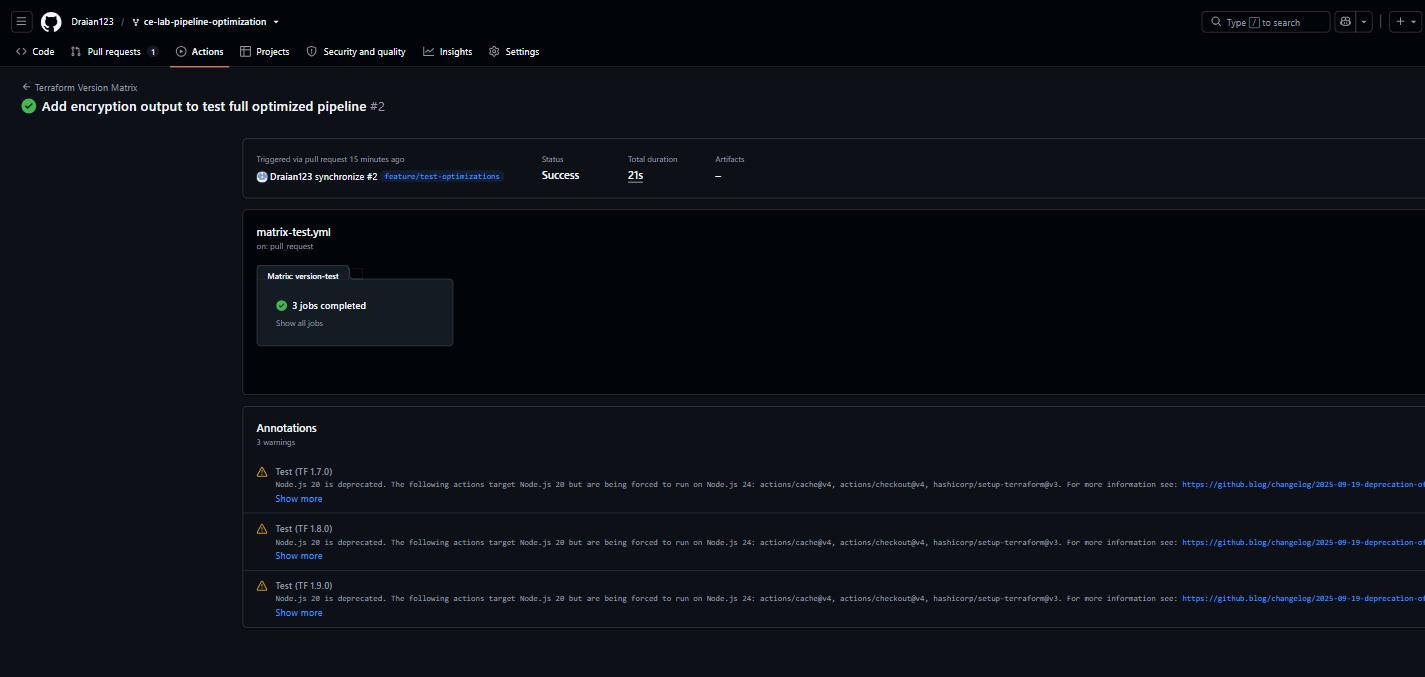
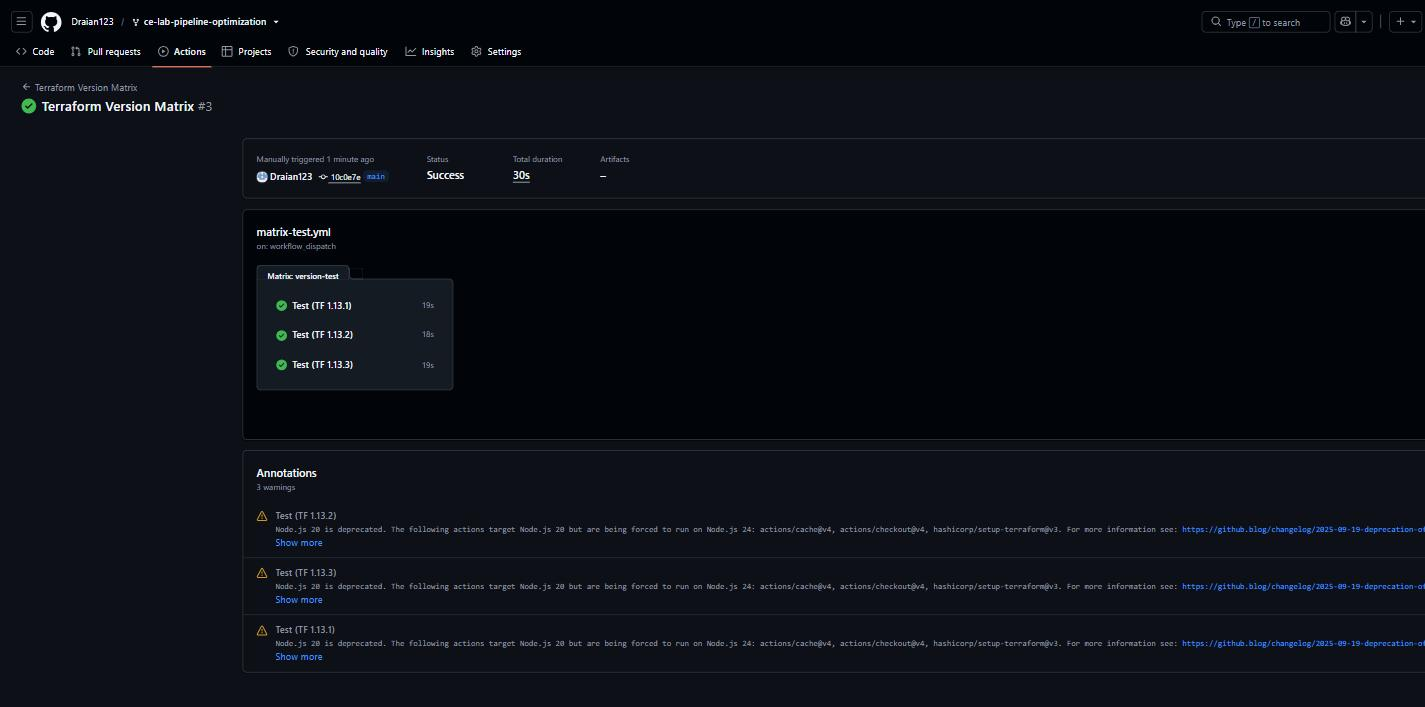
Re-benchmark at Terraform 1.13.1 and re-disable the baseline
- All numbers re-measured on 1.13.1 with the provider cache deleted first
- Baseline 14 s vs optimized 29 s warm / 34 s cold; init 5 s -> 1 s cached
- Matrix evidence updated to 1.13.1 / 1.13.2 / 1.13.3 (30 s for three versions)
- Added cache-storage cost note (110 MB per entry, 10 GB repo limit)
- baseline-slow.yml disabled again after the comparison

diff --git a/README.md b/README.md
@@ -12,18 +12,23 @@ All numbers below come from real runs in this repository's
 
 ## Pipeline Performance Comparison
 
+All pipelines run **Terraform 1.13.1**. Every measurement below was taken on that version, with the
+provider cache deleted beforehand so the cold numbers are real.
+
 | Metric | Baseline (Slow) | Optimized |
 |--------|-----------------|-----------|
-| Total wall-clock duration | **22 s** ([run](https://github.com/Draian123/ce-lab-pipeline-optimization/actions/runs/31367689766)) | **35 s** warm cache ([run](https://github.com/Draian123/ce-lab-pipeline-optimization/actions/runs/31368200527)) · 43 s cold ([run](https://github.com/Draian123/ce-lab-pipeline-optimization/actions/runs/31367689782)) |
-| Billable job time | 13 s in 1 job | 28 s across 3 jobs |
-| `terraform init` | 4–6 s, **never cached** | 5 s cold → **1–2 s cached** |
+| Total wall-clock duration | **14 s** ([run](https://github.com/Draian123/ce-lab-pipeline-optimization/actions/runs/31370828181)) | **29 s** warm cache ([run](https://github.com/Draian123/ce-lab-pipeline-optimization/actions/runs/31370981166)) · 34 s cold ([run](https://github.com/Draian123/ce-lab-pipeline-optimization/actions/runs/31370828252)) |
+| Billable job time | 12 s in 1 job | 29 s across 3 jobs (36 s cold) |
+| `terraform init` | 5 s, **never cached** | 5 s cold → **1 s cached** |
 | Job structure | 1 sequential job | 3 jobs: `lint` ∥ `validate` → `plan` |
 | Path filtering | none — runs on every change | `terraform/**` + own workflow file only |
-| Version testing | single version (1.7.0) | matrix: 1.7.0, 1.8.0, 1.9.0 in parallel |
+| Version testing | single version (1.13.1) | matrix: 1.13.1, 1.13.2, 1.13.3 in parallel |
 | Docs-only commit | full pipeline runs | **skipped entirely** |
 
 > **Read the wall-clock row carefully.** On this workload the optimized pipeline is *slower*, and
 > that is the honest result — see [Where the optimizations actually pay off](#where-the-optimizations-actually-pay-off).
+>
+> Caching still does its job: warm cache beats cold by 5 s, and `init` drops from 5 s to 1 s.
 
 ---
 
@@ -37,12 +42,13 @@ provider set is unchanged.
 
 | `terraform init` | Duration | Evidence |
 |------------------|----------|----------|
-| Baseline (no cache, every run) | 4–6 s | baseline job, all runs |
-| Optimized, cache miss | 5 s (+3 s to save the cache) | [run 31367689782](https://github.com/Draian123/ce-lab-pipeline-optimization/actions/runs/31367689782) |
-| Optimized, cache hit | **1 s** (+2 s to restore) | [run 31368200527](https://github.com/Draian123/ce-lab-pipeline-optimization/actions/runs/31368200527) |
+| Baseline (no cache, every run) | 5 s | [run 31370828181](https://github.com/Draian123/ce-lab-pipeline-optimization/actions/runs/31370828181) |
+| Optimized, cache miss | 5 s (+5 s to save the cache) | [run 31370828252](https://github.com/Draian123/ce-lab-pipeline-optimization/actions/runs/31370828252) |
+| Optimized, cache hit | **1 s** (+2–4 s to restore) | [run 31370981166](https://github.com/Draian123/ce-lab-pipeline-optimization/actions/runs/31370981166) |
 
-**~75–80 % faster `init` on a cache hit.** Note that restore/save themselves cost 2–3 s, so with only
-two small providers the net saving is close to zero; the technique scales with provider count and size.
+**80 % faster `init` on a cache hit** (5 s → 1 s). Note that restore/save themselves cost 2–5 s for a
+110 MB entry, so with only two providers the net saving is close to zero; the technique scales with
+provider count and size, not with the number of jobs using it.
 
 Caches are branch-scoped on GitHub: a cache saved on a feature branch is *not* visible to `main`.
 That is why the first `main` run after the merge still missed and had to repopulate it.
@@ -59,9 +65,9 @@ optimized:  lint      ┐
             validate  ┘── plan                       (three runners)
 ```
 
-Measured on [run 31367366139](https://github.com/Draian123/ce-lab-pipeline-optimization/actions/runs/31367366139):
-`Format Check` and `Validate` both started at `07:48:30–31Z` — genuinely concurrent — and `plan`
-started at `07:48:53Z`, after both finished.
+Measured on [run 31370828252](https://github.com/Draian123/ce-lab-pipeline-optimization/actions/runs/31370828252):
+`Format Check` and `Validate` both started at `08:36:41–42Z` — genuinely concurrent — and `plan`
+started at `08:37:02Z`, after both finished.
 
 Total ≈ `max(lint, validate) + plan` instead of `lint + validate + plan`.
 
@@ -108,9 +114,9 @@ instead of failing the pipeline:
 `strategy.matrix` runs `init` + `validate` + `fmt` against three Terraform versions with
 `fail-fast: false` and per-version cache keys.
 
-[Run 31367366142](https://github.com/Draian123/ce-lab-pipeline-optimization/actions/runs/31367366142):
-three versions finished in **21 s wall-clock** (jobs of 12 s, 13 s and 17 s). Run sequentially the
-same work would take ~42 s.
+[Run 31371022376](https://github.com/Draian123/ce-lab-pipeline-optimization/actions/runs/31371022376):
+1.13.1, 1.13.2 and 1.13.3 finished in **30 s wall-clock** (jobs of 19 s, 18 s and 19 s, all with cold
+per-version caches). Run sequentially the same work would take ~56 s.
 
 ![Matrix: three Terraform versions pass in parallel](docs/screenshots/matrix-3-versions-pass.jpg)
 
@@ -129,26 +135,29 @@ tested 1.6.0, 1.7.0 and 1.8.0 — and 1.6.0 failed while the other two passed:
 HashiCorp's release signing key (`72D7468F`) expired on 2026-04-18. Terraform 1.6.0 ships an
 embedded copy of that key and can no longer verify provider signatures; 1.7.0+ can. Without
 `fail-fast: false` the run would have aborted and hidden the fact that only one version was broken.
-Both pipelines were moved to 1.7.0 and 1.6.0 was dropped from the matrix.
+Both pipelines now pin **1.13.1**, and the matrix covers the 1.13.x patch line (1.13.1 / 1.13.2 /
+1.13.3) — close enough together to catch a regression between patch releases, far enough from the
+expired-key era to be usable.
 
 ---
 
 ## Where the optimizations actually pay off
 
-The optimized pipeline takes **more** wall-clock time than the baseline here (35 s vs 22 s), and
+The optimized pipeline takes **more** wall-clock time than the baseline here (29 s vs 14 s), and
 costs **3 billable job-minutes instead of 1** — GitHub bills every job rounded up to the minute.
 
 The reason is workload size. Each extra job pays a fixed toll:
 
 | Fixed per-job cost | Measured |
 |--------------------|----------|
-| Runner provisioning (`Set up job`) | 1–2 s |
+| Runner provisioning (`Set up job`) | 1 s |
 | Checkout + `setup-terraform` | 2 s |
-| Cache restore/save | 2–3 s |
-| Queue wait before a dependent job starts | 3–8 s |
+| Cache restore/save (110 MB) | 2–5 s |
+| Queue wait before a dependent job starts | 2 s |
 
-That is ~10 s of overhead per job. The useful work in this repository — four small resources, no
-real `plan` — is 1–3 s per step, so the overhead dominates and parallelism has nothing to hide.
+That is 5–10 s of overhead per job, paid three times instead of once. The useful work in this
+repository — four small resources, no real `plan` — is 1–5 s per step, so the overhead dominates and
+parallelism has nothing to hide.
 
 Parallelization wins once each stage is longer than the per-job overhead. With a realistic
 `plan` against AWS (~90 s) and a larger provider set:
@@ -161,7 +170,7 @@ Parallelization wins once each stage is longer than the per-job overhead. With a
 | **Total** | **~145 s** | **~120 s**, and 0 s on docs-only commits |
 
 **Conclusion:** caching and path filtering pay off at any size; job splitting only pays off once a
-stage is long enough to outweigh ~10 s of runner overhead. On a pipeline this small, the correct
+stage is long enough to outweigh 5–10 s of runner overhead. On a pipeline this small, the correct
 optimization is the path filter — it removes 100 % of the cost on documentation commits.
 
 ---
@@ -180,6 +189,10 @@ pipeline invocations. Additional levers used or recommended:
 - **Disable dead workflows.** `baseline-slow.yml` was renamed to `.disabled` once the comparison was
   recorded, so it stops consuming minutes.
 - **`concurrency` groups** to cancel superseded runs on rapid pushes (not enabled here).
+- **Watch cache storage, not just minutes.** Each provider cache entry is **110 MB**, and the matrix
+  creates one *per Terraform version*. Three matrix versions plus the shared key is ~440 MB against
+  the 10 GB per-repository limit — GitHub evicts least-recently-used entries once that fills, which
+  silently turns cache hits back into misses.
 - **Merge tiny jobs.** On a pipeline this small, `lint` and `validate` in one job would be both
   faster and cheaper than two.
 
@@ -192,7 +205,7 @@ ce-lab-pipeline-optimization/
 ├── .github/workflows/
 │   ├── baseline-slow.yml.disabled   # anti-pattern reference: sequential, no cache, no filters
 │   ├── optimized.yml                # caching + parallel jobs + path filter + conditional plan
-│   └── matrix-test.yml              # Terraform 1.7 / 1.8 / 1.9 in parallel
+│   └── matrix-test.yml              # Terraform 1.13.1 / 1.13.2 / 1.13.3 in parallel
 ├── terraform/
 │   ├── main.tf                      # S3 logs bucket: versioning, SSE, public access block
 │   ├── variables.tf
@@ -206,7 +219,7 @@ ce-lab-pipeline-optimization/
 
 | Anti-pattern | Cost | Fix |
 |--------------|------|-----|
-| No provider caching | 4–6 s of downloads every run | `actions/cache@v4` |
+| No provider caching | 5 s of downloads every run | `actions/cache@v4` |
 | One sequential job | independent checks wait on each other | split jobs, `needs:` only where real |
 | No path filter | runs on README changes | `paths:` filter |
 | Single Terraform version | version breakage found in production | `strategy.matrix` |
@@ -222,7 +235,7 @@ ce-lab-pipeline-optimization/
    the fastest pipeline is the one that does not run.
 4. **`fail-fast: false` is what makes a matrix useful** — it turned a total failure into the precise
    answer "1.6.0 is broken, 1.7.0 and 1.8.0 are fine".
-5. **Per-job overhead is real** (~10 s on GitHub-hosted runners). Do not split work smaller than it.
+5. **Per-job overhead is real** (5–10 s on GitHub-hosted runners). Do not split work smaller than it.
 
 ## Notes / known limitations
 
